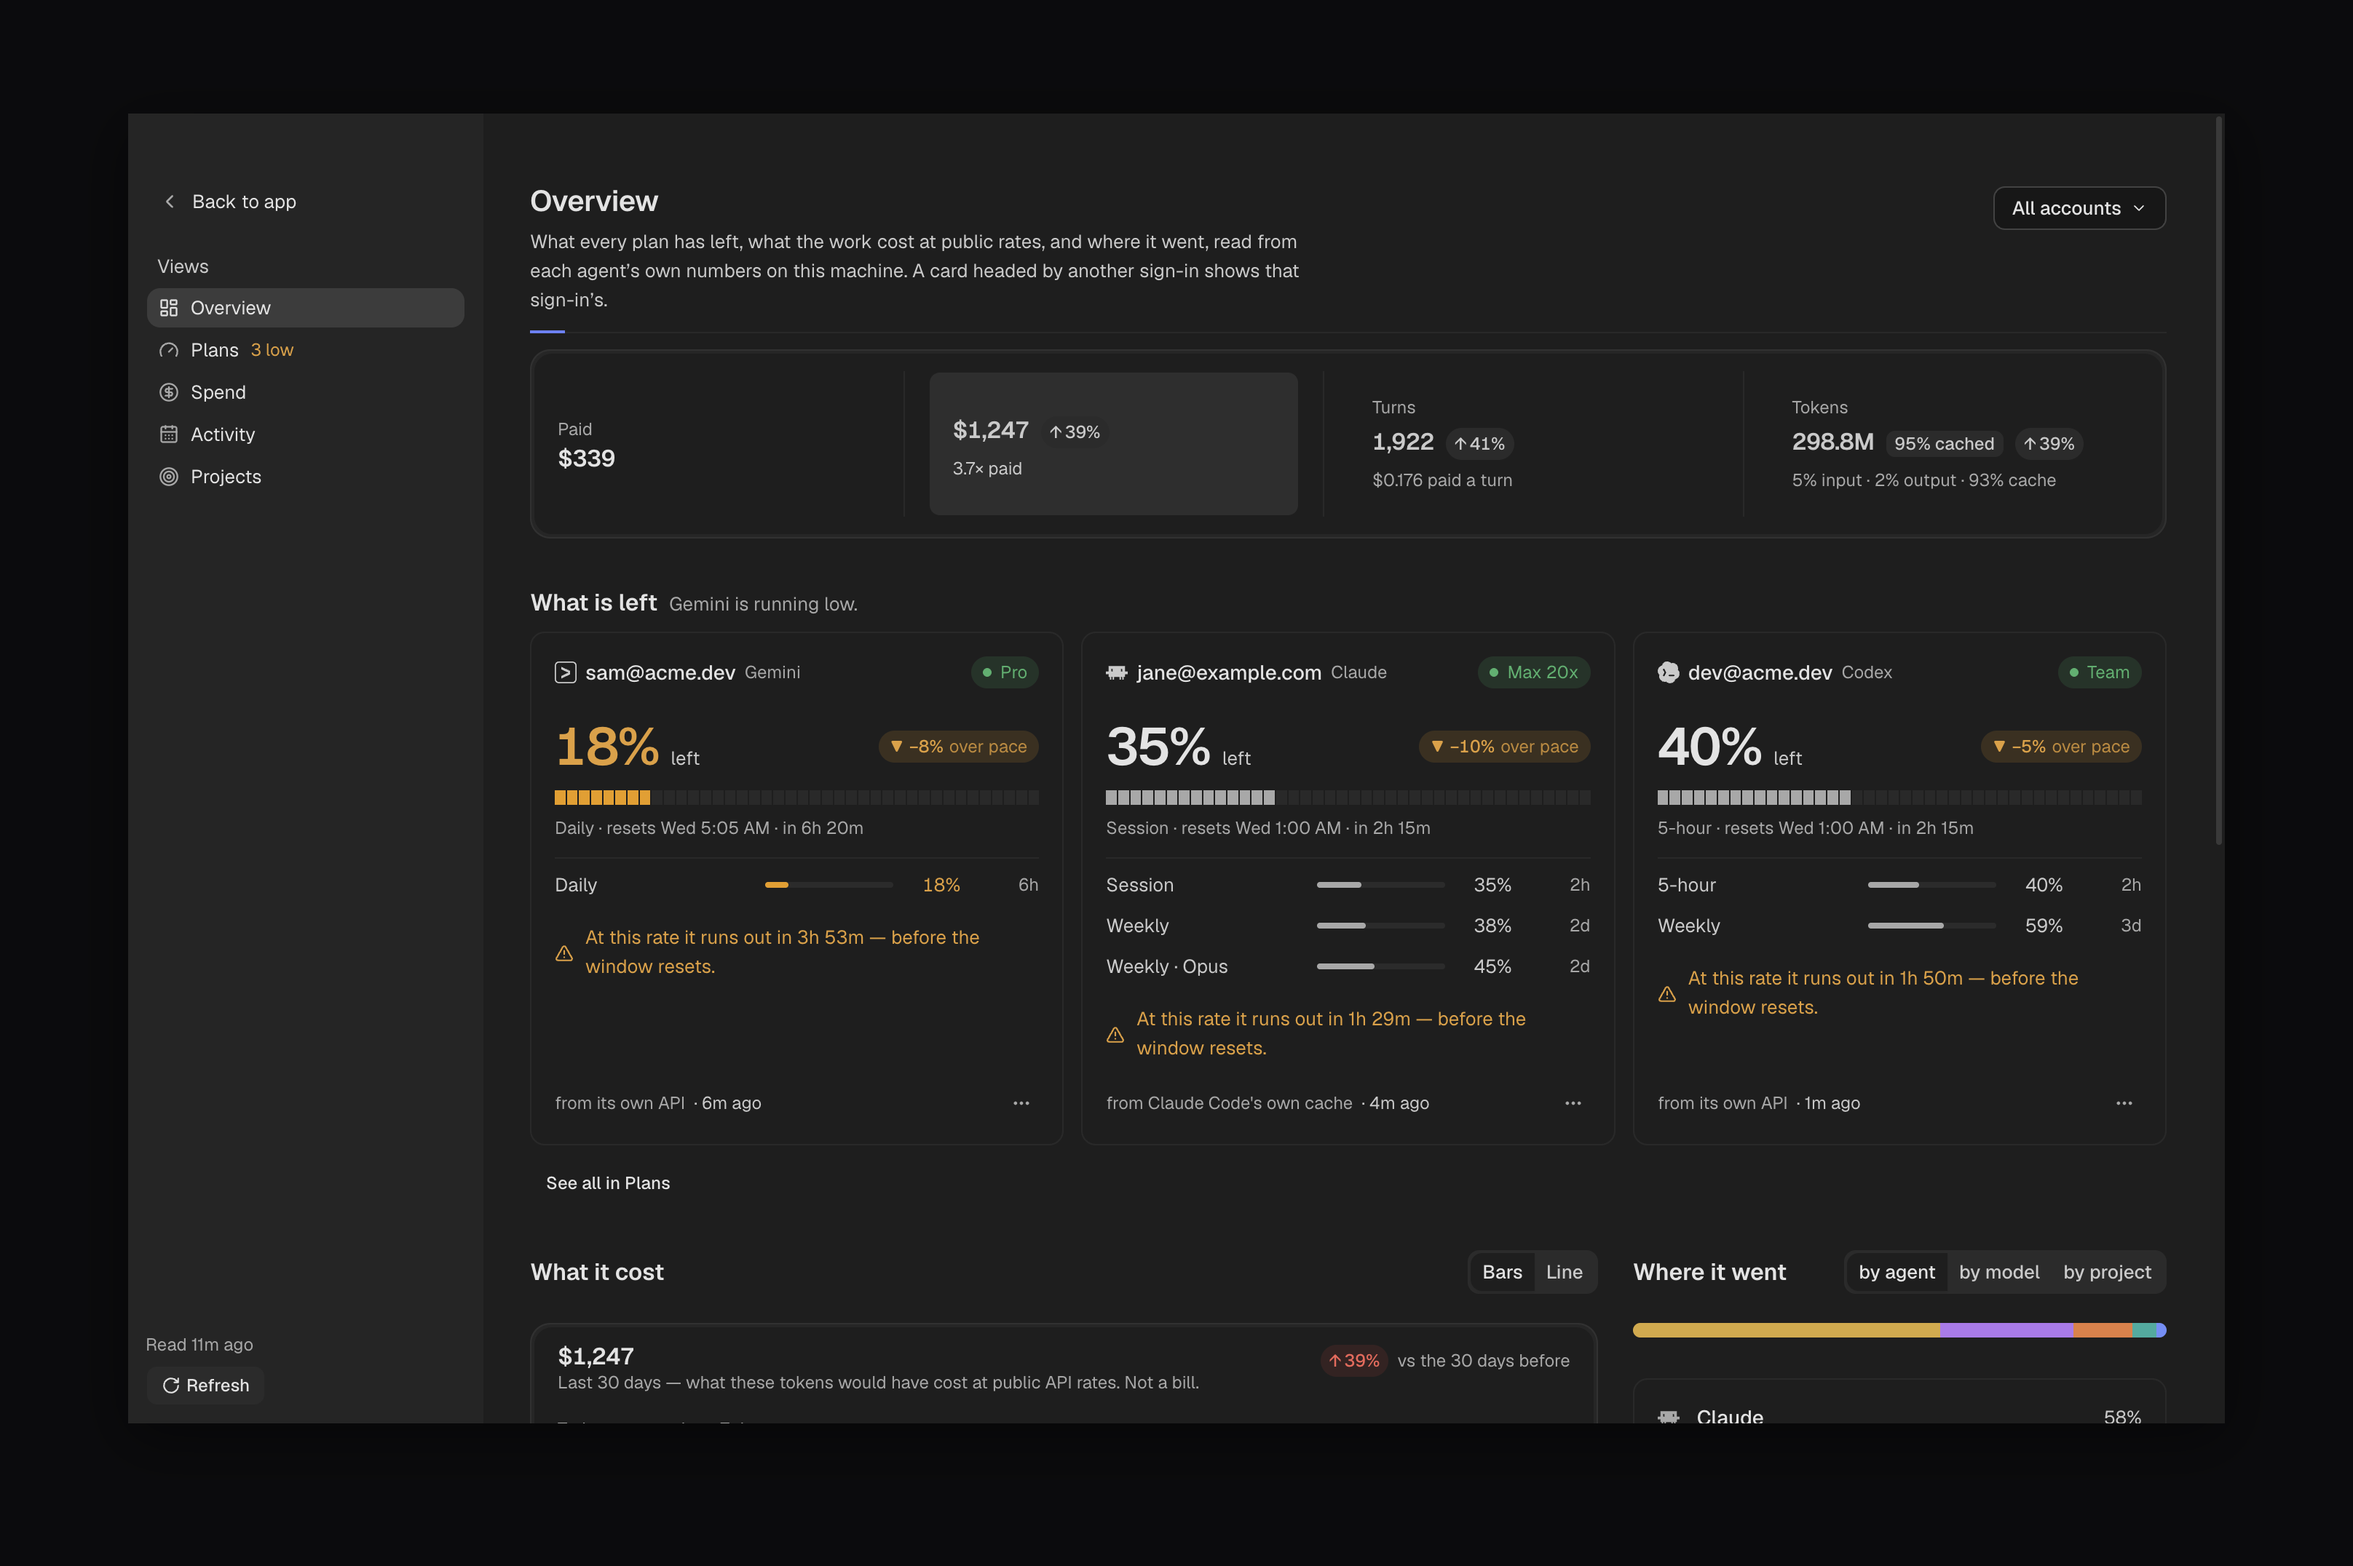
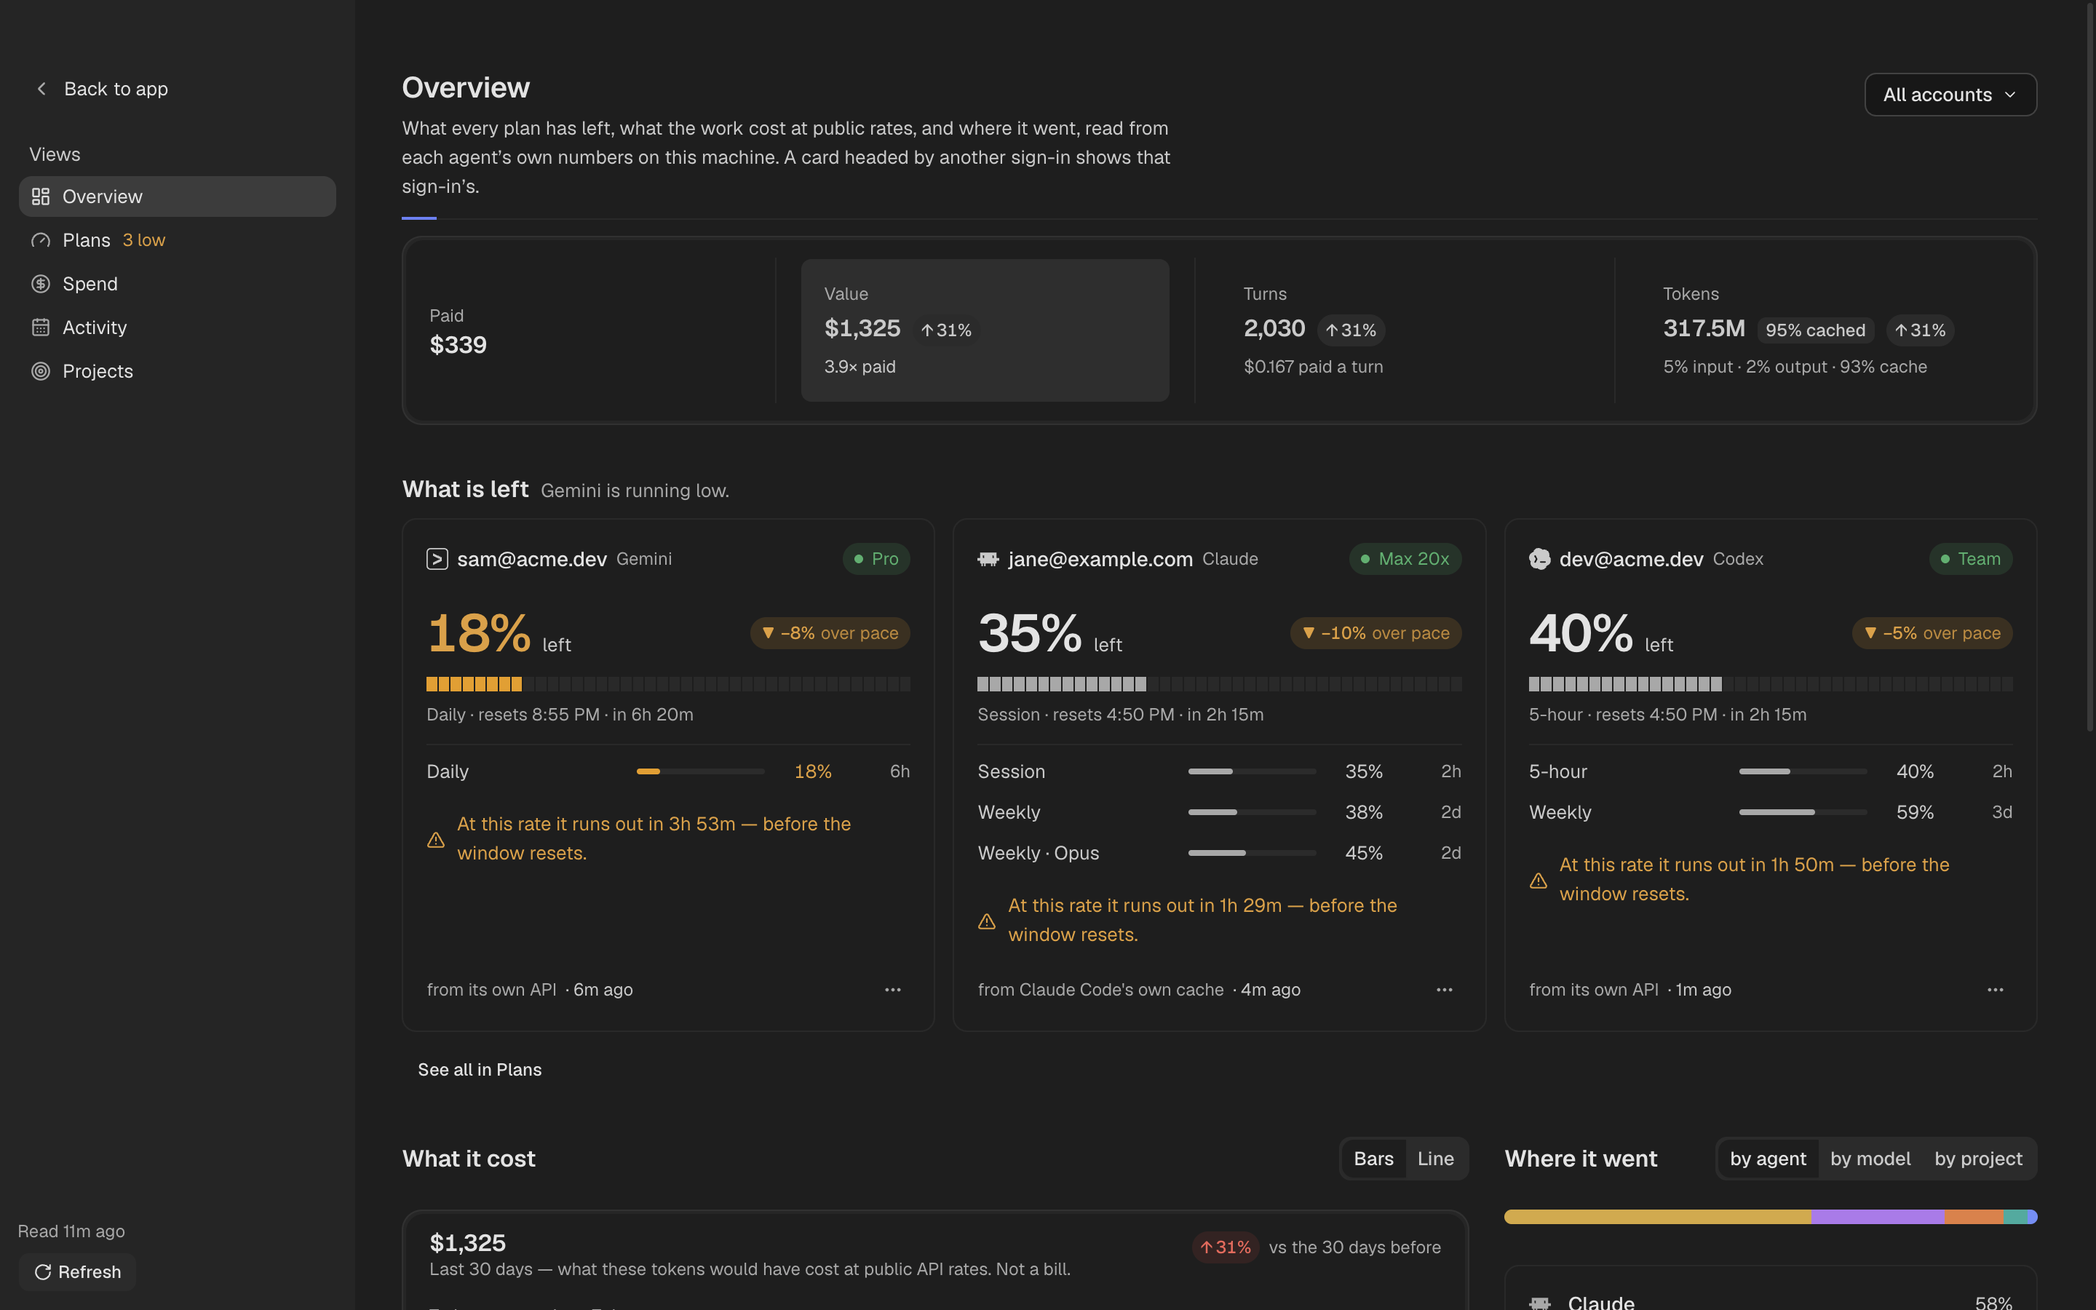
The Overview strip's Value cell is labelled Value (#1147)
* The Overview strip's Value cell is labelled Value

Its label was `provenanceLabel(ledger)`, so in the app the cell read
"List-price equivalent" or "Plan metered", never the name the rest of the
Dashboard and the "×N paid" caption use. The label is now "Value"; how it
was priced moves into the cell's title. `provenanceLabel` answers a value
outside the union with the list-price wording instead of undefined, and the
shots rig uses a real provenance ('listPrice', not 'priced'), which left
the label blank in the README's frame.

* The README's Dashboard frames show the Value label

* provenanceLabel names no basis for a value it does not know

A default of 'List-price equivalent' would claim a pricing basis for any
future SpendProvenance member; a never check now fails the build instead,
and an out-of-union value at run time reads 'Pricing method unknown'.

* The README's Dashboard frames are reshot on main's section headings

---------

diff --git a/packages/ui/src/components/usage/OverviewStrip.test.tsx b/packages/ui/src/components/usage/OverviewStrip.test.tsx
@@ -1,0 +1,65 @@
+import { act } from 'react'
+import { createRoot, type Root } from 'react-dom/client'
+import { afterEach, beforeEach, describe, expect, it } from 'vitest'
+
+import type { LedgerReport, SpendProvenance } from '@harnessdesk/protocol'
+
+import { OverviewStrip } from './OverviewStrip'
+
+;(globalThis as { IS_REACT_ACT_ENVIRONMENT?: boolean }).IS_REACT_ACT_ENVIRONMENT = true
+
+let host: HTMLDivElement
+let root: Root
+
+beforeEach(() => {
+  host = document.createElement('div')
+  document.body.append(host)
+  root = createRoot(host)
+})
+
+afterEach(() => {
+  act(() => root.unmount())
+  host.remove()
+})
+
+const ledger = (provenance: SpendProvenance): LedgerReport =>
+  ({
+    days: 1,
+    currency: 'USD',
+    totalCost: provenance === 'unknown' ? null : 12,
+    totalTokens: 100,
+    provenance,
+    coverage: { priced: 1, unpriced: 0, unmetered: 0, estimated: 0, daysCovered: 1, daysRequested: 1 },
+    rows: [],
+    daily: [],
+    scannedAt: null,
+  }) as LedgerReport
+
+describe('OverviewStrip Value cell', () => {
+  it.each([
+    ['listPrice', 'list-price equivalent'],
+    ['vendorMetered', 'plan metered'],
+    ['mixed', 'metered and list-price'],
+    ['unknown', 'spend unavailable'],
+  ] as const)('labels %s as Value and keeps its pricing detail in the title', (provenance, phrase) => {
+    act(() =>
+      root.render(
+        <OverviewStrip
+          reports={[]}
+          ledger={ledger(provenance)}
+          wideLedger={null}
+          range={30}
+          now={Date.parse('2026-09-30T12:00:00Z')}
+          metric="value"
+          onMetricChange={() => {}}
+          onOpenPlan={() => {}}
+        />,
+      ),
+    )
+
+    const valueButton = host.querySelector<HTMLButtonElement>('button[aria-pressed="true"]')
+    expect(valueButton?.textContent?.startsWith('Value')).toBe(true)
+    expect(valueButton?.getAttribute('title')).toBe(`Value (${phrase}). Switch the chart below to cost per day`)
+    if (provenance === 'unknown') expect(valueButton?.textContent).toContain('unpriced')
+  })
+})

diff --git a/packages/ui/src/components/usage/OverviewStrip.tsx b/packages/ui/src/components/usage/OverviewStrip.tsx
@@ -113,6 +113,7 @@ export const OverviewStrip = ({
   const turnsCoverage = useMemo(() => agentCoverage(ledger?.coverage, ledgerRuntimeIds(ledger)), [ledger])
   const tokensCoverage = useMemo(() => tokenCoverage(ledger), [ledger])
   const cacheHit = cacheHitRate(ledger?.totals)
+  const valuePricing = ledger ? provenanceLabel(ledger).replace(/^./, (letter) => letter.toLowerCase()) : null
 
   // Value's ratio and Turns' per-turn price only mean what they claim when
   // Paid covers the same scope Value and Turns do — see
@@ -186,10 +187,14 @@ export const OverviewStrip = ({
             variant="quiet"
             className={`${styles.stripCell} items-start text-left`}
             aria-pressed={metric === 'value'}
-            title="Value — switch the chart below to cost per day"
+            title={
+              valuePricing
+                ? `Value (${valuePricing}). Switch the chart below to cost per day`
+                : 'Value. Switch the chart below to cost per day'
+            }
             onClick={() => onMetricChange('value')}
           >
-            <Text role="meta">{ledger ? provenanceLabel(ledger) : 'Value'}</Text>
+            <Text role="meta">Value</Text>
             <div className={styles.stripFigureLine}>
               <ChartTitle figure>
                 {ledger === null ? '—' : ledger.totalCost === null ? 'unpriced' : formatMoney(ledger.totalCost, ledger.currency)}

diff --git a/packages/ui/src/lib/usage.test.ts b/packages/ui/src/lib/usage.test.ts
@@ -17,6 +17,7 @@ import {
   costClause,
   planLabel,
   pricedNote,
+  provenanceLabel,
   runway,
   spendHint,
   workingAccount,
@@ -548,6 +549,12 @@ describe('pricedNote', () => {
     expect(pricedNote(3, 'listPrice')).toBe(
       '3 of these rows include models with no public price, so their cost is lower than shown.',
     )
+  })
+})
+
+describe('provenanceLabel', () => {
+  it('names no pricing basis for a value outside the protocol union', () => {
+    expect(provenanceLabel({ provenance: 'priced' as never })).toBe('Pricing method unknown')
   })
 })
 

diff --git a/packages/ui/src/lib/usage.ts b/packages/ui/src/lib/usage.ts
@@ -763,6 +763,13 @@ export const provenanceLabel = (spend: Pick<SpendSummary, 'provenance'>): string
       return 'Metered and list-price'
     case 'unknown':
       return 'Spend unavailable'
+    default: {
+      // A new `SpendProvenance` member fails to compile here; a value from
+      // outside the union at run time says so rather than claiming a basis.
+      const unhandled: never = spend.provenance
+      void unhandled
+      return 'Pricing method unknown'
+    }
   }
 }
 
